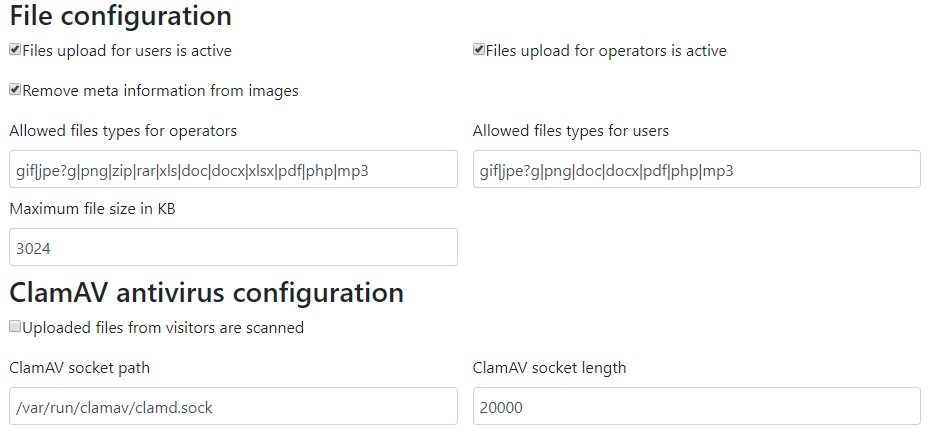
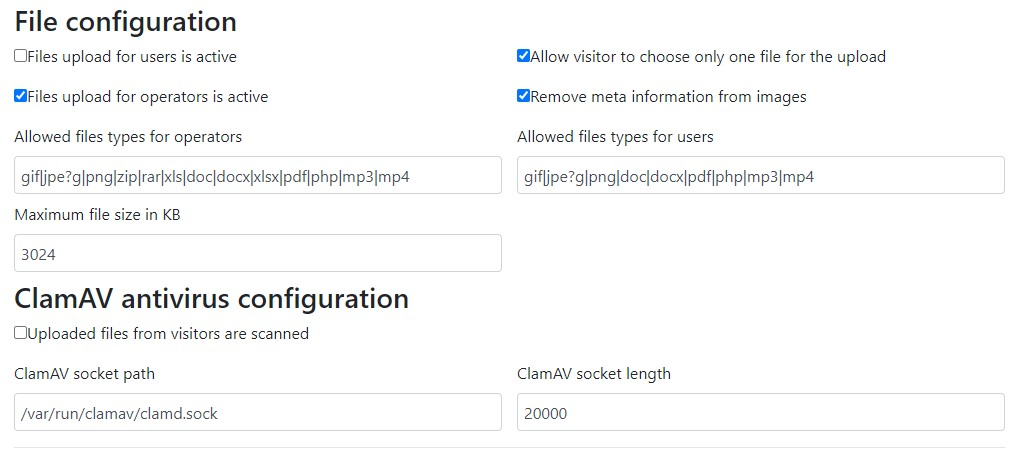
Update documentation

diff --git a/docs/hosting-variations.md b/docs/hosting-variations.md
@@ -27,7 +27,7 @@ Purpose of this article is to give ideas how much hosting can cost depending on 
  * If you want that I just did support on demand, standard fee applies 35 EUR/H. You will be responsible for servers maintenance, and I won't be monitoring resources.
  * Always once we have system live a lot of depends on customer website how he integrates a widget. Does he wants proactive invitations or not. E.g checks is live anyone online or not. All this increase/decrease load and can influence required resources for the hosting.
 
-## Production example of real world hosting. 
+## Example 1. Production example of real world hosting. 
 
 * 10K chats per day
   * 4.5K chats served by operators
@@ -38,6 +38,7 @@ Purpose of this article is to give ideas how much hosting can cost depending on 
 
 These are virtual linux machines
 
+* OS - Centos
 * Web server (nginx, php-fpm, redis, nodejshelper, php-resque)
     * 6TH, Intel(R) Xeon(R) CPU E5-2670 0 @ 2.60GHz
     * Memory 8GB
@@ -46,6 +47,22 @@ These are virtual linux machines
     * 8TH, Intel(R) Xeon(R) CPU E5-2670 0 @ 2.60GHz
 * ElasticSearch
     * Used for statistic generation. I don't have exact server specification, but I think something like Web server it should be.
+
+## Example 2. Production example of real world hosting.
+
+* 3K - 4K chats per day
+* Around 5-10 operators online
+
+There is only one linux machine. This amount of chats should handle server also with 2x less resources than it has now.
+
+* OS - Centos
+* Web and database are on the same server. (nginx, php-fpm, redis, php-resque)
+    * CPU - 8 Threads. Intel(R) Xeon(R) D-2123IT CPU @ 2.20GHz
+    * Memory - 32GB
+* Disk HDD - it's biggest disadvantage of this server as it does not have SSD disks.
+* Migration from Windows server took 6h - 8h
+
+Migration was done from Windows server. Client had integration with third party API where request were send to third party API within each message send from operator. It was the biggest issue (API call was taking long time and blocking php-fpm process worker). This task was moved to php-resque.
 
 ## Without load balancers
 

diff --git a/docs/commands.md b/docs/commands.md
@@ -50,10 +50,17 @@ At the moment these commands are implemented
 * !files 
     * Enables files upload for a particular chat if general files upload is disabled. Default message text looks like
     `I have enabled files upload for you. [fupload]Upload a file[/fupload].`
-    If you want multilanguage support you can just create a canned message with content like
+    * If you want multilanguage support you can just create a canned message with content like
     `!files I have enabled files upload for you. [fupload]Upload a file[/fupload].`
+    * It's possible to enable files upload without any message by sending command like
+    `!files no`
 * !stopfiles
-    * Disables files upload if it was enabled before by `!files` command
+    * Disables files upload if it was enabled before by `!files` command. Default message looks like 
+    `Files upload was disabled!`
+    * You can have custom message by sending 
+    `!stopfiles files upload was disabled`
+    * To disable files upload without any message for the visitor
+    `!stopfiles no`
 * !modal `<form_id>` `<explain>`
     * Will show a form module form with passed id and will write a passed explain. Explain is optional.
 * !modal `https://example.com`

diff --git a/docs/bot/collect-custom-attribute.md b/docs/bot/collect-custom-attribute.md
@@ -111,4 +111,17 @@ You can also avoid this error manually executing `Update Current chat` response 
 
 ### File expecting trigger example
 
-![](/img/bot/collect-file.png)
+Scenario if files uploads are disabled by default and enabled by bot automatically and after a successful upload disabled again.
+
+* Files upload for the visitor is disabled. 
+* In files configuration section you have enabled `Allow visitor to choose only one file for the upload`
+* Very first trigger in bot response is `Send Text` with content `!files no` this will enable files upload for the visitor without sending any message.
+* Next response within trigger is the file collecting workflow itself
+
+Files upload trigger configuration example
+
+![](/img/bot/collect-file.png?v=1)
+
+* On success of file upload we disable files upload by sending `Send Text` with content `!stopfiles we have received your file!`
+
+![](/img/bot/file-received.png?v=1)

diff --git a/docs/bot/rest-api.md b/docs/bot/rest-api.md
@@ -164,6 +164,22 @@ Examples of variables extraction
 }
 ```
 
+##### Parsing array for the output
+
+* `user_info:phones^implode=={n}` would output phones array combined with new line character.
+* `user_info:phones^implode==[b]{item}[/b]{n}` would output phones array wrapper with bold and new line character
+
+```json
+{
+    "user_info": {
+        "phones": [
+            "111111",
+            "222222"
+        ]
+    }
+}
+```
+
 #### Conditions checking
 
 Sometimes it makes sense to check was something found based on response attribute. So you can define condition to check.

diff --git a/docs/chat/files.md b/docs/chat/files.md
@@ -8,7 +8,7 @@ sidebar_label: Files
 
 Main files configuration section.
 
-![](/img/files/files-configuration.jpg)
+![](/img/files/files-configuration.jpg?v=1)
 
 You can allow either upload files to operators or visitors. Operators has to have permission to upload files also.
 
